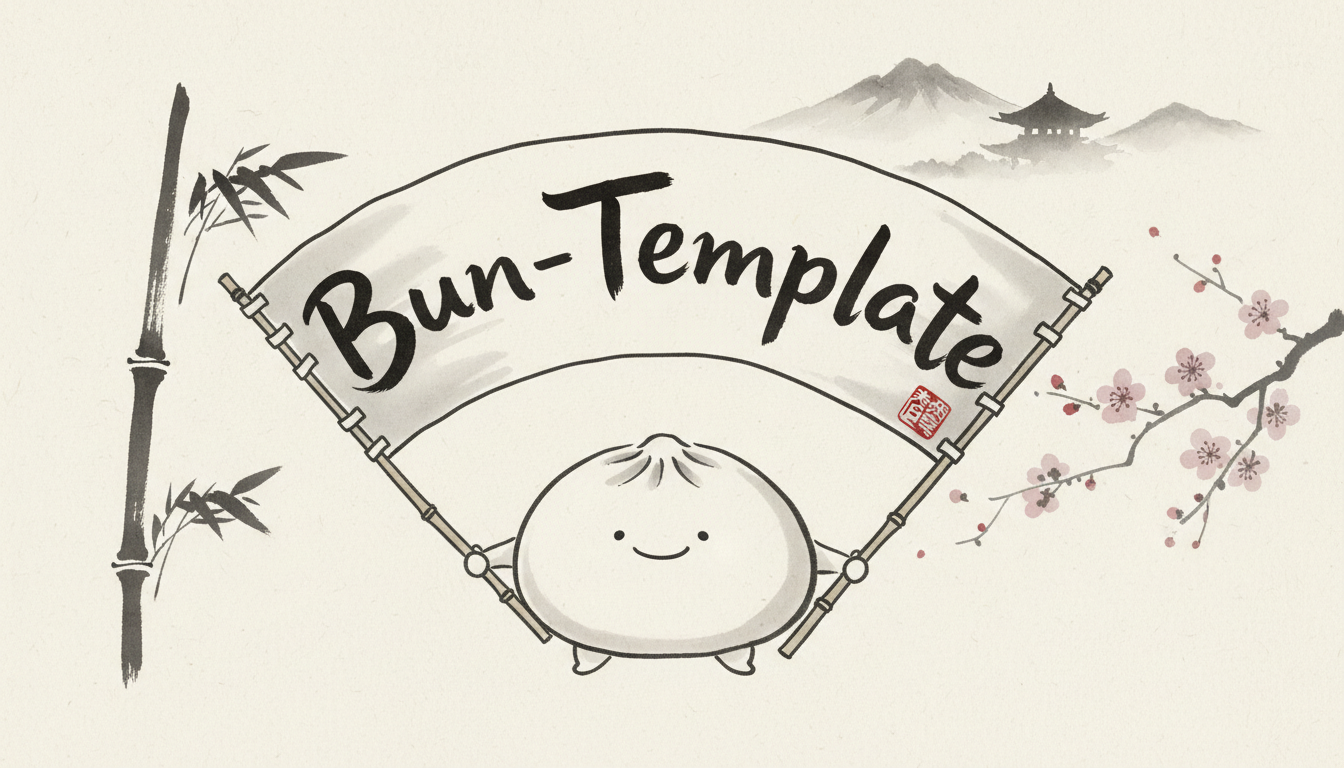
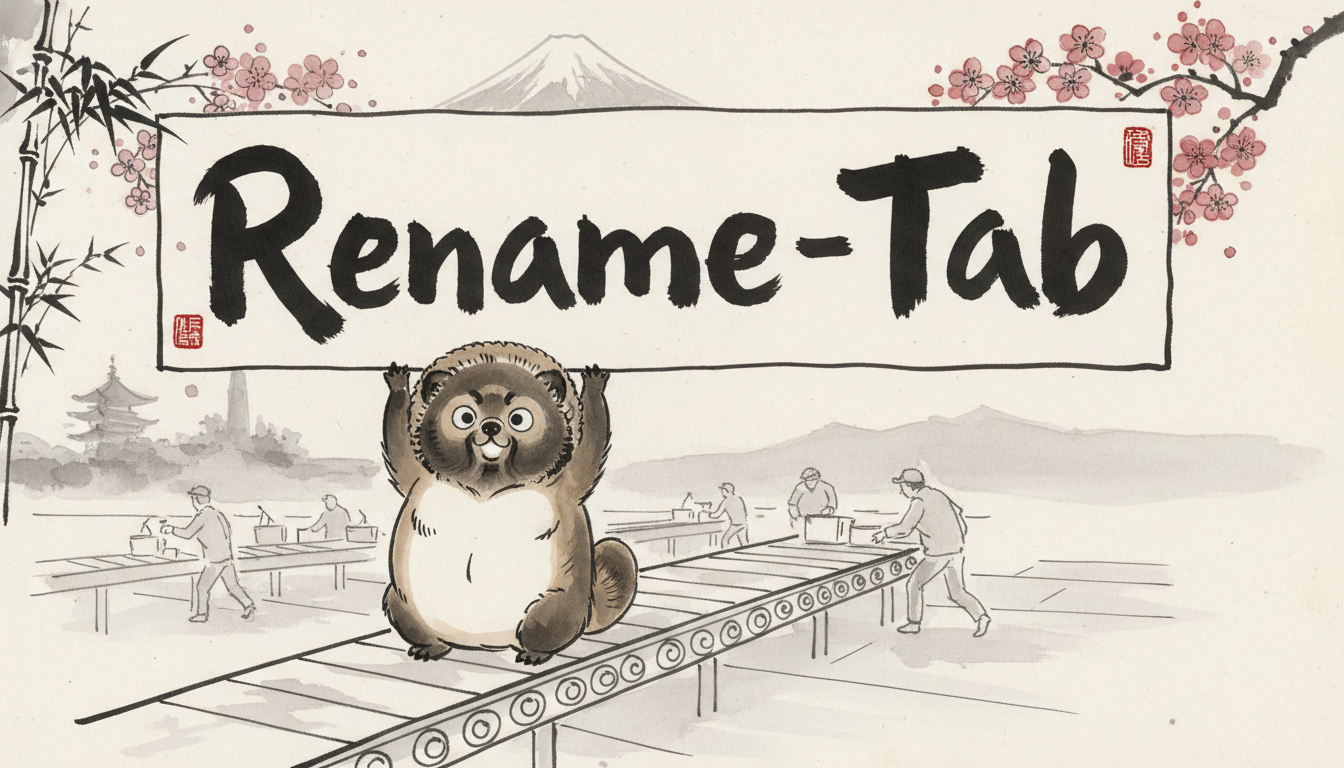
🔨 Apply project rename (Bun-Template → Rename-Tab)
Pre-existing working-tree changes: update README, banner image, and the
startup log message to reflect the Rename-Tab project name.

diff --git a/src/index.ts b/src/index.ts
@@ -1,5 +1,5 @@
 import { globalConfig } from "@/config";
 
-console.log("Hello from Bun-Template!");
+console.log("Hello from Rename-Tab!");
 console.log(`Config loaded: ${globalConfig.exampleParent.exampleChild}`);
 console.log(`Running on: ${globalConfig.runningOn}`);

diff --git a/README.md b/README.md
@@ -1,11 +1,11 @@
-# bun-template
+# rename-tab
 
 <p align="center">
-  <img src="media/banner.png" alt="Bun-Template" width="400">
+  <img src="media/banner.png" alt="Rename-Tab" width="400">
 </p>
 
 <p align="center">
-<b>🥟 Agent-ergonomic opinionated Bun template</b>
+<b>🌐📑 Rename chrome tabs (vertical tabs)</b>
 </p>
 
 <p align="center">
@@ -17,16 +17,16 @@
 </p>
 
 <p align="center">
-  <img alt="Project Version" src="https://img.shields.io/badge/dynamic/json?url=https%3A%2F%2Fraw.githubusercontent.com%2FMiyamura80%2FBun-Template%2Fmain%2Fpackage.json&query=%24.version&label=version&color=blue">
+  <img alt="Project Version" src="https://img.shields.io/badge/dynamic/json?url=https%3A%2F%2Fraw.githubusercontent.com%2FMiyamura80%2FRename-Tab%2Fmain%2Fpackage.json&query=%24.version&label=version&color=blue">
   <img alt="Bun" src="https://img.shields.io/badge/runtime-bun-f9f1e1?logo=bun">
-  <img alt="GitHub repo size" src="https://img.shields.io/github/repo-size/Miyamura80/Bun-Template">
-  <img alt="GitHub Actions Workflow Status" src="https://img.shields.io/github/actions/workflow/status/Miyamura80/Bun-Template/ci_checks.yaml?branch=main">
+  <img alt="GitHub repo size" src="https://img.shields.io/github/repo-size/Miyamura80/Rename-Tab">
+  <img alt="GitHub Actions Workflow Status" src="https://img.shields.io/github/actions/workflow/status/Miyamura80/Rename-Tab/ci_checks.yaml?branch=main">
 </p>
 
 ---
 
 <p align="center">
-  <img src="media/demo.gif" alt="Bun-Template Demo" width="600">
+  <img src="media/demo.gif" alt="Rename-Tab Demo" width="600">
 </p>
 
 ## Key Features
@@ -95,8 +95,8 @@ globalConfig.features.newUi;
 
 ## About the Core Contributors
 
-<a href="https://github.com/Miyamura80/Bun-Template/graphs/contributors">
-  <img src="https://contrib.rocks/image?repo=Miyamura80/Bun-Template" />
+<a href="https://github.com/Miyamura80/Rename-Tab/graphs/contributors">
+  <img src="https://contrib.rocks/image?repo=Miyamura80/Rename-Tab" />
 </a>
 
 Made with [contrib.rocks](https://contrib.rocks).
